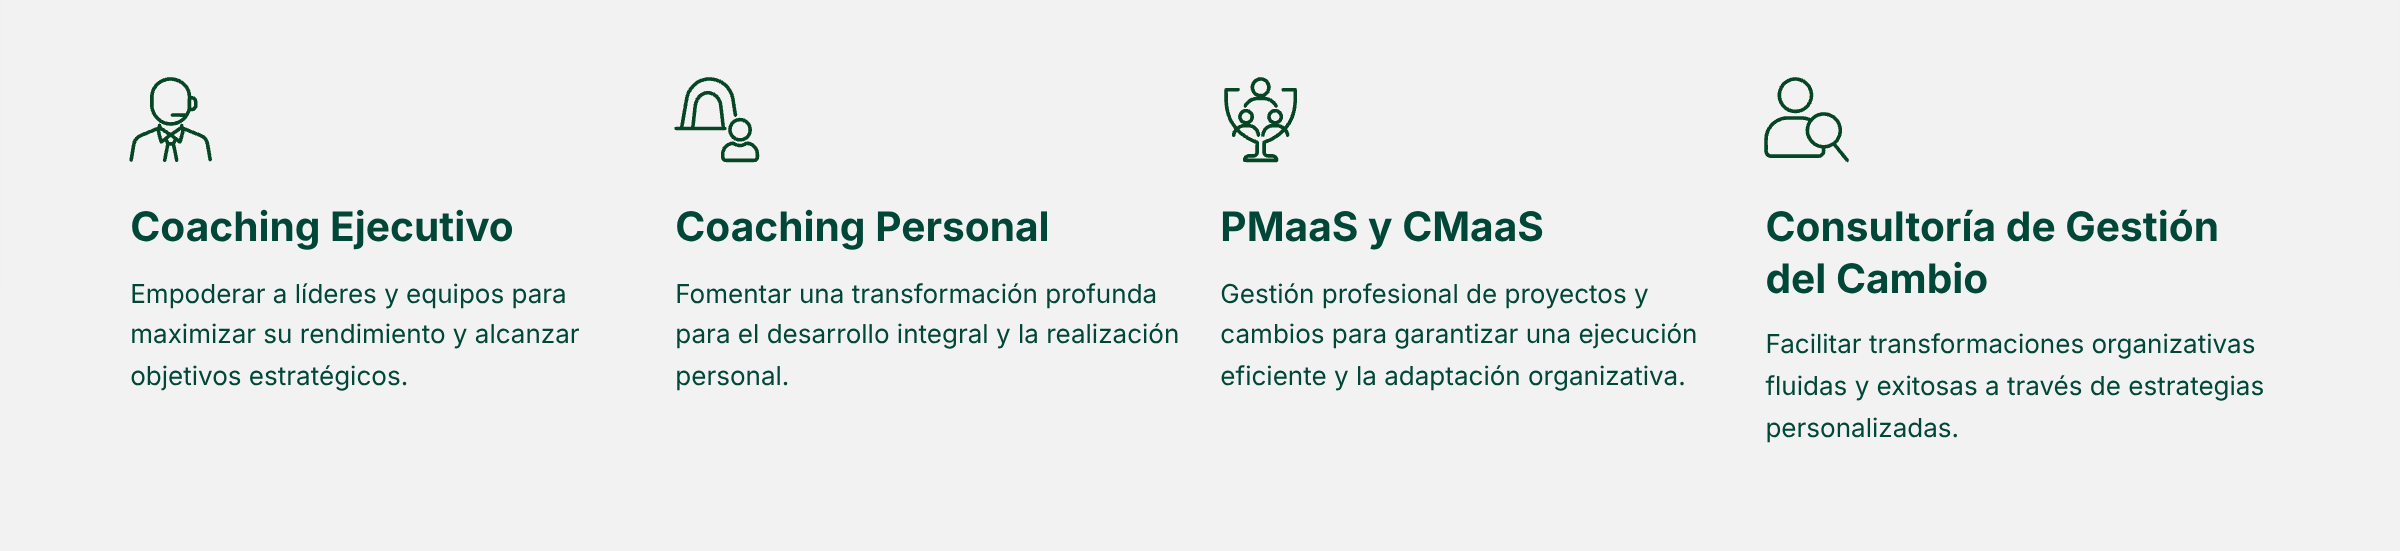
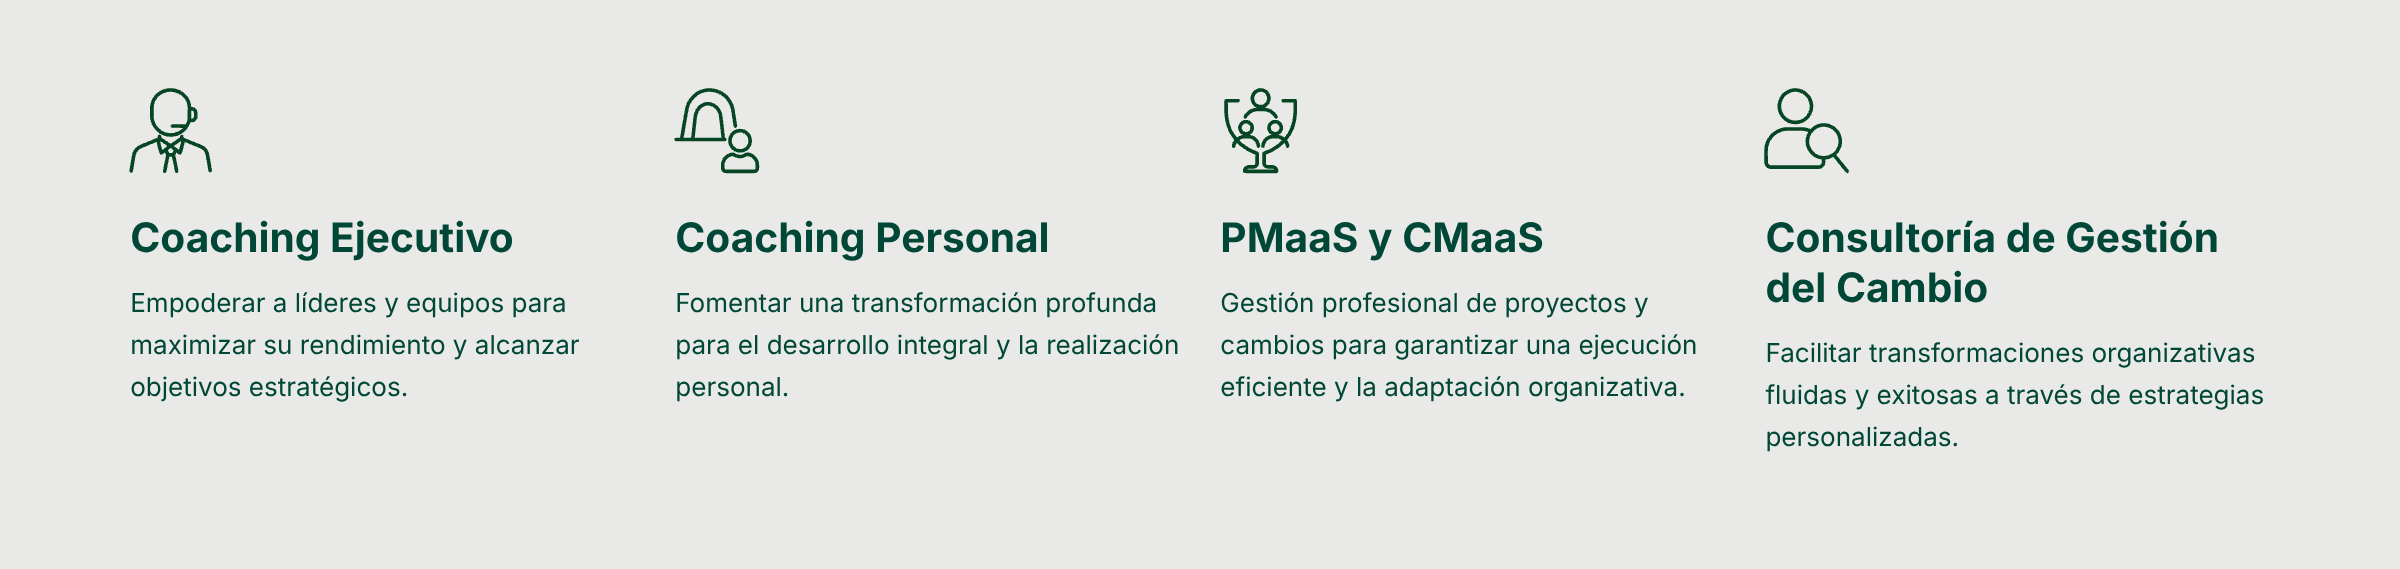
Color adjusment

diff --git a/assets/sass/custom.scss b/assets/sass/custom.scss
@@ -10,12 +10,12 @@ body {
 }
 
 #header {
-  background-color: #d7f7e4;
+  background-color: #e9e9e7;
   color: #1e3f2b;
 }
 
 #header nav li ul {
-  color: #55f997;
+  color: #e9e9e7;
 }
 
 #titleBar {
@@ -52,8 +52,6 @@ body {
 }
 
 .container {
-  // color: #1d1d1b;
-
   h3 {
     color: #1e3f2b;
   }
@@ -83,7 +81,7 @@ article h3 {
 }
 
 #logo img {
-  max-height: 70px; // adjust as needed
+  max-height: 78px; // adjust as needed
   width: auto;
   display: inline-block;
   margin: 0 auto;

diff --git a/content/about/about_me.md b/content/about/about_me.md
@@ -1,5 +1,5 @@
 ---
-title: "About Me"
+title: "Acerca de mí"
 description: "Con más de 15 años de experiencia en el ámbito de la consultoría, coaching y dirección de proyectos, me dedico a potenciar el desarrollo humano y organizacional. Mi enfoque se centra en facilitar procesos de transformación que permitan a individuos y equipos superar desafíos, innovar y alcanzar sus metas más ambiciosas. Creo firmemente en el poder del autoconocimiento y la estrategia para generar cambios sostenibles y significativos."
 menu: main
 weight: 80
